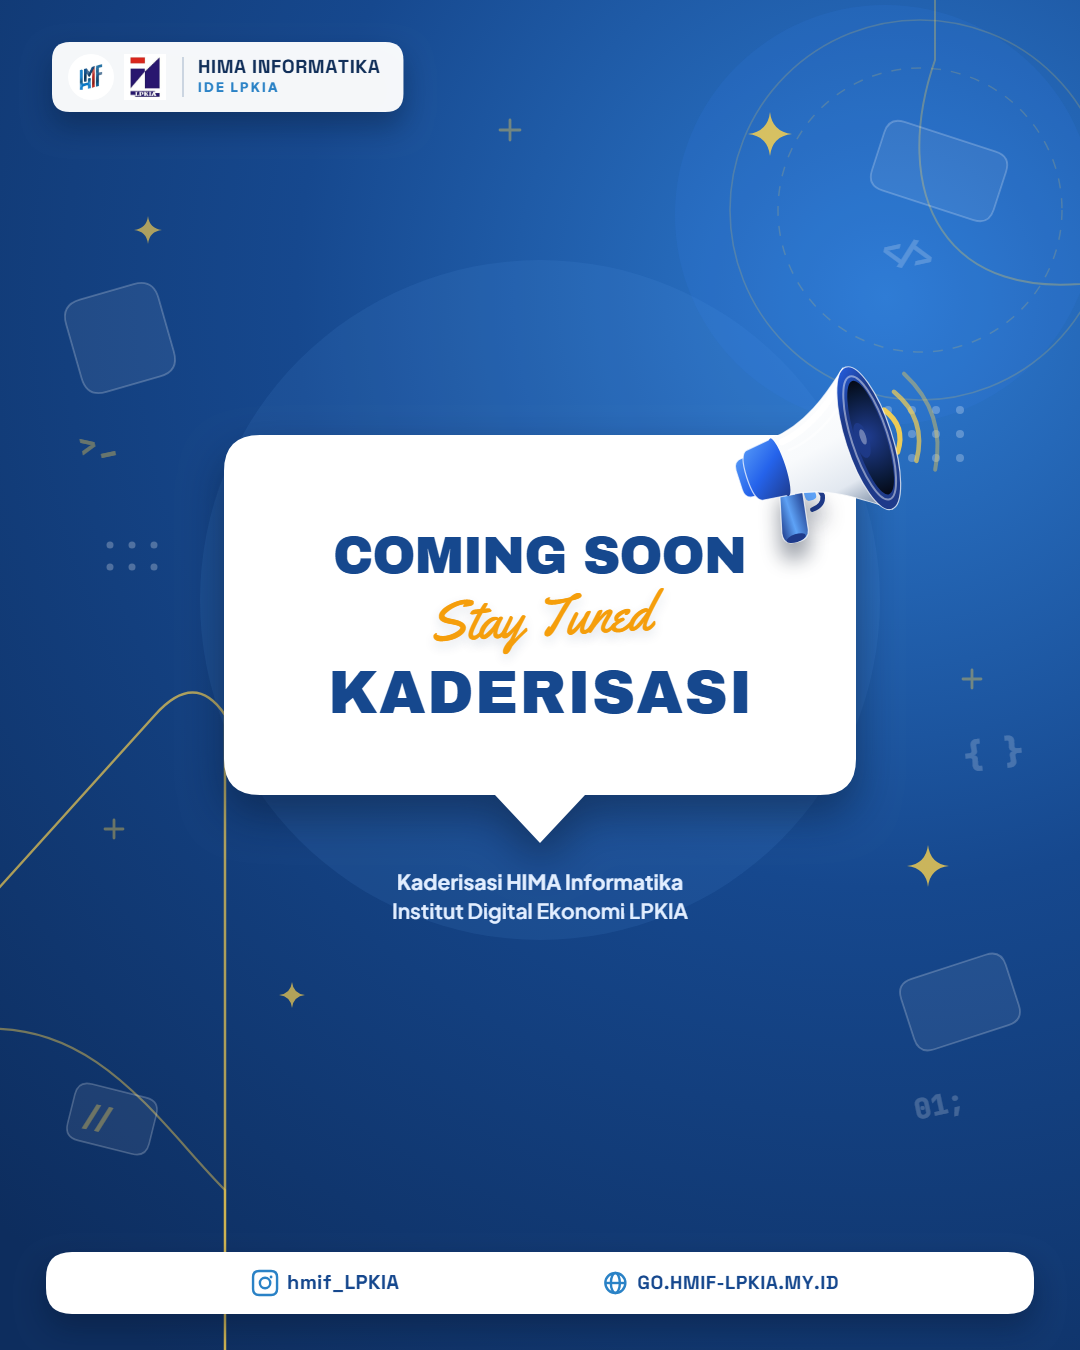
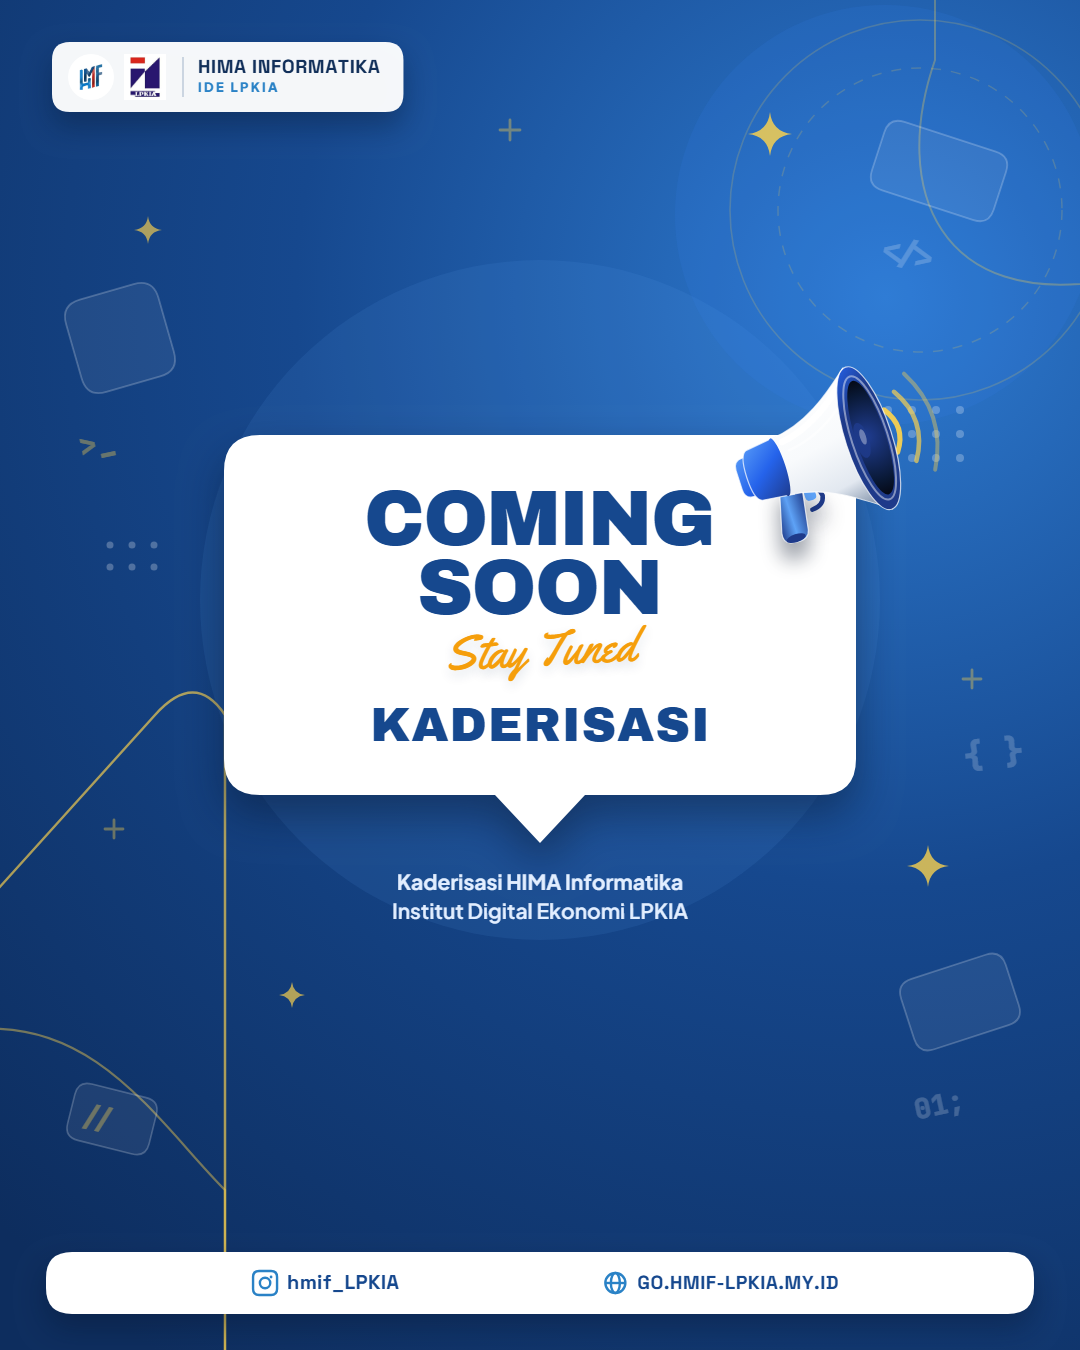
fix: isolate glass shards to Layout 1, sync style switches, and stack Layout 3 Coming Soon

Changed region(s): [[0.3056, 0.3422, 0.7028, 0.56]]

diff --git a/index.html b/index.html
@@ -374,6 +374,10 @@
             border-width: 3px;
             box-shadow: 3px 3px 0 #000000;
         }
+        .poster-canvas.mode-coming-soon.layout-3.style-neubrutalism .l3-script-txt {
+            margin: 10px 0 10px 0;
+            padding: 5px 18px;
+        }
         .layout-3.style-neubrutalism .l3-cap-main { color: #FFFFFF; }
         .layout-3.style-neubrutalism .l3-cap-date { color: #FCD34D; }
         .layout-3.style-neubrutalism .l3-cap-loc { color: #FFFFFF; }
@@ -595,6 +599,7 @@
         .layout-4.style-neubrutalism .l4-star-poly { fill: #CA2C2A; stroke: #000000; stroke-width: 8; stroke-linejoin: round; }
         .layout-4.style-neubrutalism .l4-ca { color: rgba(255, 255, 255, 0.34); }
         .layout-4.style-neubrutalism .l4-cb { color: rgba(252, 211, 77, 0.72); }
+        .layout-4.style-neubrutalism .l4-media-code { color: rgba(26, 70, 124, 0.38); }
         .layout-4.style-neubrutalism .l4-top-pill { background: #FFFFFF; color: #12305A; border: 3.5px solid #000000; box-shadow: 6px 6px 0 #000000; border-radius: 14px; }
         .layout-4.style-neubrutalism .l4-top-sub { color: #CA2C2A; }
         .layout-4.style-neubrutalism .l4-card-back { background: #DBEAFE; border: 4px solid #000000; box-shadow: 9px 9px 0 #000000; border-radius: 16px; }
@@ -623,6 +628,7 @@
         .layout-4.style-glass .l4-star-poly { fill: rgba(96, 165, 250, 0.28); stroke: rgba(255, 255, 255, 0.90); stroke-width: 5; stroke-linejoin: round; }
         .layout-4.style-glass .l4-ca { color: rgba(219, 234, 254, 0.38); }
         .layout-4.style-glass .l4-cb { color: rgba(253, 224, 71, 0.50); }
+        .layout-4.style-glass .l4-media-code { color: rgba(37, 99, 235, 0.40); }
         .layout-4.style-glass .l4-top-pill { background: rgba(255, 255, 255, 0.88); color: #12305A; border: 1.5px solid rgba(255,255,255,0.95); box-shadow: 0 14px 32px rgba(8, 25, 58, 0.28); border-radius: 999px; font-family: 'Outfit', sans-serif; }
         .layout-4.style-glass .l4-top-sub { color: #DC2626; }
         .layout-4.style-glass .l4-card-back { background: rgba(226, 240, 255, 0.45); border: 1.5px solid rgba(255,255,255,0.70); box-shadow: 0 24px 48px rgba(8, 25, 58, 0.26); border-radius: 26px; }
@@ -891,7 +897,7 @@
 
         /* ================= THEME 4 (NEW #2): GLASSMORPHISM ================= */
         .glass-bg-layer { display: none; }
-        .style-glass .glass-bg-layer { display: block; }
+        .poster-canvas.layout-1.style-glass .glass-bg-layer { display: block; }
         .style-glass {
             background: radial-gradient(circle at 20% 15%, #F4F9FF 0%, #D9EBFF 48%, #BEDBFF 100%);
             color: #0F294A;
@@ -1745,7 +1751,7 @@
 
                                 <!-- 3-Layer Hero Typography Inside Bubble -->
                                 <div class="l3-bubble-inner relative z-10 w-full h-full flex flex-col items-center justify-center text-center">
-                                    <span id="l3OutHero" class="l3-hero-txt font-hero uppercase leading-[0.88] tracking-[-0.02em] block" style="font-size: 136px;">
+                                    <span id="l3OutHero" class="l3-hero-txt font-hero uppercase leading-[0.88] tracking-[-0.02em] block whitespace-pre-line" style="font-size: 136px;">
                                         H-7
                                     </span>
                                     <span id="l3OutScript" class="l3-script-txt font-script leading-none block -mt-6 -mb-3 -rotate-3 select-none" style="font-size: 56px;">
@@ -1868,7 +1874,6 @@
                                             <span id="l4OutFile" class="l4-win-file">countdown.exe</span>
                                         </div>
                                         <span class="code-accent l4-media-code l4-cb" style="left: 16px;">&gt;_</span>
-                                        <span class="code-accent l4-media-code l4-cb" style="right: 16px;">01;</span>
 
                                         <div class="l4-media-body">
                                             <span id="l4OutBadge" class="l4-badge">COUNTDOWN</span>
@@ -2194,9 +2199,9 @@
             const l3HeroEl = document.getElementById('l3OutHero');
             const l3ScriptEl = document.getElementById('l3OutScript');
             const l3TitleEl = document.getElementById('l3OutTitle');
-            const l3M = getL3BubbleMetrics(E.isCS ? 'COMING SOON' : E.hero, E.title);
+            const l3M = getL3BubbleMetrics(E.hero, E.title, E.isCS);
             if (l3HeroEl) {
-                l3HeroEl.textContent = E.isCS ? 'COMING SOON' : E.hero;
+                l3HeroEl.textContent = l3M.heroLines.join('\n');
                 l3HeroEl.style.fontSize = l3M.heroFs + 'px';
             }
             if (l3ScriptEl) {
@@ -2284,17 +2289,21 @@
                 .replace(/\bWib\b/g, 'WIB');
         }
 
-        function getL3BubbleMetrics(heroTxt, titleTxt) {
-            const hl = (heroTxt || '').length;
+        function getL3BubbleMetrics(heroTxt, titleTxt, isCS = false) {
+            const heroLines = isCS ? ['COMING', 'SOON'] : [heroTxt || 'H-7'];
+            const hl = Math.max(1, ...heroLines.map((l) => l.length));
             const tl = (titleTxt || '').length;
             const ratioScale = currentRatio === '9-16' ? 1.08 : (currentRatio === '1-1' ? 0.84 : 1);
-            const baseHero = hl >= 10 ? 52 : (hl >= 7 ? 84 : (hl >= 5 ? 116 : 146));
-            const baseTitle = tl >= 13 ? 44 : (tl >= 10 ? 60 : (tl >= 7 ? 68 : 78));
-            const baseScript = hl >= 10 ? 56 : 72;
+            const baseHero = isCS ? 78 : (hl >= 10 ? 52 : (hl >= 7 ? 84 : (hl >= 5 ? 116 : 146)));
+            const rawTitle = tl >= 13 ? 44 : (tl >= 10 ? 60 : (tl >= 7 ? 68 : 78));
+            const baseTitle = isCS ? Math.min(48, rawTitle) : rawTitle;
+            const baseScript = isCS ? 48 : (hl >= 10 ? 56 : 72);
+            const basePill = isCS ? 19 : 21;
             return {
+                heroLines,
                 heroFs: Math.round(baseHero * ratioScale),
                 scriptFs: Math.round(baseScript * ratioScale),
-                pillFs: Math.round(21 * ratioScale),
+                pillFs: Math.round(basePill * ratioScale),
                 titleFs: Math.round(baseTitle * ratioScale)
             };
         }
@@ -2403,6 +2412,7 @@
                 }
             });
             renderL2CursorSvg(styleName);
+            syncAllDom();
         }
 
         function setRatio(ratio) {
@@ -4195,14 +4205,14 @@
 
             // Stacked 3-Layer Hero Text Inside Bubble (Theme-Distinct Typography)
             const isL3Pill = Boolean(L.scriptPill);
-            const heroStr = E.isCS ? 'COMING SOON' : E.hero;
             const scriptStr = isL3Pill
                 ? (E.isCS ? 'STAY TUNED' : (E.mn || 'MENUJU').toUpperCase())
                 : (E.isCS ? 'Stay Tuned' : toTitleCase(E.mn || 'Menuju'));
-            const m = getL3BubbleMetrics(heroStr, E.title);
-            const heroCenterY = bubY + bDim.bodyH * (isL3Pill ? 0.28 : 0.34);
-            const titleCenterY = bubY + bDim.bodyH * (isL3Pill ? 0.78 : 0.72);
-            const scriptCenterY = bubY + bDim.bodyH * (isL3Pill ? 0.54 : 0.51);
+            const m = getL3BubbleMetrics(E.hero, E.title, E.isCS);
+            const heroLineStep = Math.round(m.heroFs * 0.88);
+            const heroCenterY = bubY + bDim.bodyH * (E.isCS ? (isL3Pill ? 0.22 : 0.24) : (isL3Pill ? 0.28 : 0.34));
+            const titleCenterY = bubY + bDim.bodyH * (E.isCS ? 0.81 : (isL3Pill ? 0.78 : 0.72));
+            const scriptCenterY = bubY + bDim.bodyH * (E.isCS ? (isL3Pill ? 0.59 : 0.60) : (isL3Pill ? 0.54 : 0.51));
 
             const drawBubbleWord = (txt, cy, fontSpec, colorSpec, strokeCol, strokeW, shdOff, tracking, glowCol = null, fsPx = 100) => {
                 ctx.save();
@@ -4275,12 +4285,14 @@
                 ctx.restore();
             };
 
-            drawBubbleWord(
-                heroStr, heroCenterY,
-                `${L.heroWeight} ${m.heroFs}px ${L.heroFont}`,
-                L.heroCol, L.heroStroke, L.heroSW, L.heroShdOff,
-                L.heroTrack * m.heroFs, L.heroGlow, m.heroFs
-            );
+            m.heroLines.forEach((line, idx) => {
+                drawBubbleWord(
+                    line, heroCenterY + idx * heroLineStep,
+                    `${L.heroWeight} ${m.heroFs}px ${L.heroFont}`,
+                    L.heroCol, L.heroStroke, L.heroSW, L.heroShdOff,
+                    L.heroTrack * m.heroFs, L.heroGlow, m.heroFs
+                );
+            });
             drawBubbleWord(
                 E.title, titleCenterY,
                 `${L.titleWeight} ${m.titleFs}px ${L.titleFont}`,
@@ -4637,7 +4649,7 @@
                 'neubrutalism': {
                     bgMode: 'dots', bg: '#16488E', dot: 'rgba(255,255,255,0.16)', wallCol: 'rgba(255,255,255,0.08)',
                     star: { fill: '#CA2C2A', stroke: '#000000', sw: 6, soft: null },
-                    codeA: 'rgba(255,255,255,0.34)', codeB: 'rgba(252,211,77,0.72)', softCol: null,
+                    codeA: 'rgba(255,255,255,0.34)', codeB: 'rgba(252,211,77,0.72)', codeM: 'rgba(26,70,124,0.38)', softCol: null,
                     topFill: '#FFFFFF', topText: '#12305A', topSub: '#CA2C2A', topBorder: 3.5, topBorderCol: '#000000', topShadow: 6, topRad: 14,
                     backFill: '#DBEAFE', backBorder: 4, backBorderCol: '#000000', backShadow: 9,
                     cardFill: '#FFFFFF', cardText: '#0F172A', cardBorder: 4, cardBorderCol: '#000000', cardShadow: 12, cardRad: 16,
@@ -4655,7 +4667,7 @@
                 'glass': {
                     bgMode: 'grad', stops: [[0, '#0D356F'], [0.48, '#1B5AA6'], [1, '#2E80D1']], wallCol: 'rgba(255,255,255,0.08)',
                     star: { fill: 'rgba(96,165,250,0.28)', stroke: 'rgba(255,255,255,0.90)', sw: 4, soft: null },
-                    codeA: 'rgba(219,234,254,0.38)', codeB: 'rgba(253,224,71,0.50)', softCol: 'rgba(8,25,58,0.34)',
+                    codeA: 'rgba(219,234,254,0.38)', codeB: 'rgba(253,224,71,0.50)', codeM: 'rgba(37,99,235,0.40)', softCol: 'rgba(8,25,58,0.34)',
                     topFill: 'rgba(255,255,255,0.88)', topText: '#12305A', topSub: '#DC2626', topBorder: 1.5, topBorderCol: 'rgba(255,255,255,0.95)', topShadow: 0, topRad: 999,
                     backFill: 'rgba(226,240,255,0.45)', backBorder: 1.5, backBorderCol: 'rgba(255,255,255,0.70)', backShadow: 0,
                     cardFill: 'rgba(255,255,255,0.88)', cardText: '#0F294A', cardBorder: 2, cardBorderCol: 'rgba(255,255,255,0.96)', cardShadow: 0, cardRad: 26,
@@ -4932,10 +4944,9 @@
             });
             drawTextTrack(M.fileName, mX + 90, mY + tbH / 2 + 1, '800 14px "JetBrains Mono", monospace', L.tbText, 0.56, 'left');
 
-            // Corner code accents inside media
+            // Corner code accent inside media
             if (showAccents) {
-                drawTextTrack('>_', mX + 16, mY + mH - 22, '800 22px "JetBrains Mono", monospace', L.codeB, 0, 'left');
-                drawTextTrack('01;', mX + mW - 16, mY + mH - 22, '800 22px "JetBrains Mono", monospace', L.codeB, 0, 'right');
+                drawTextTrack('>_', mX + 16, mY + mH - 22, '800 22px "JetBrains Mono", monospace', L.codeM || L.codeB, 0, 'left');
             }
 
             // Content stack: badge -> hero -> script (overlap) -> stamp
